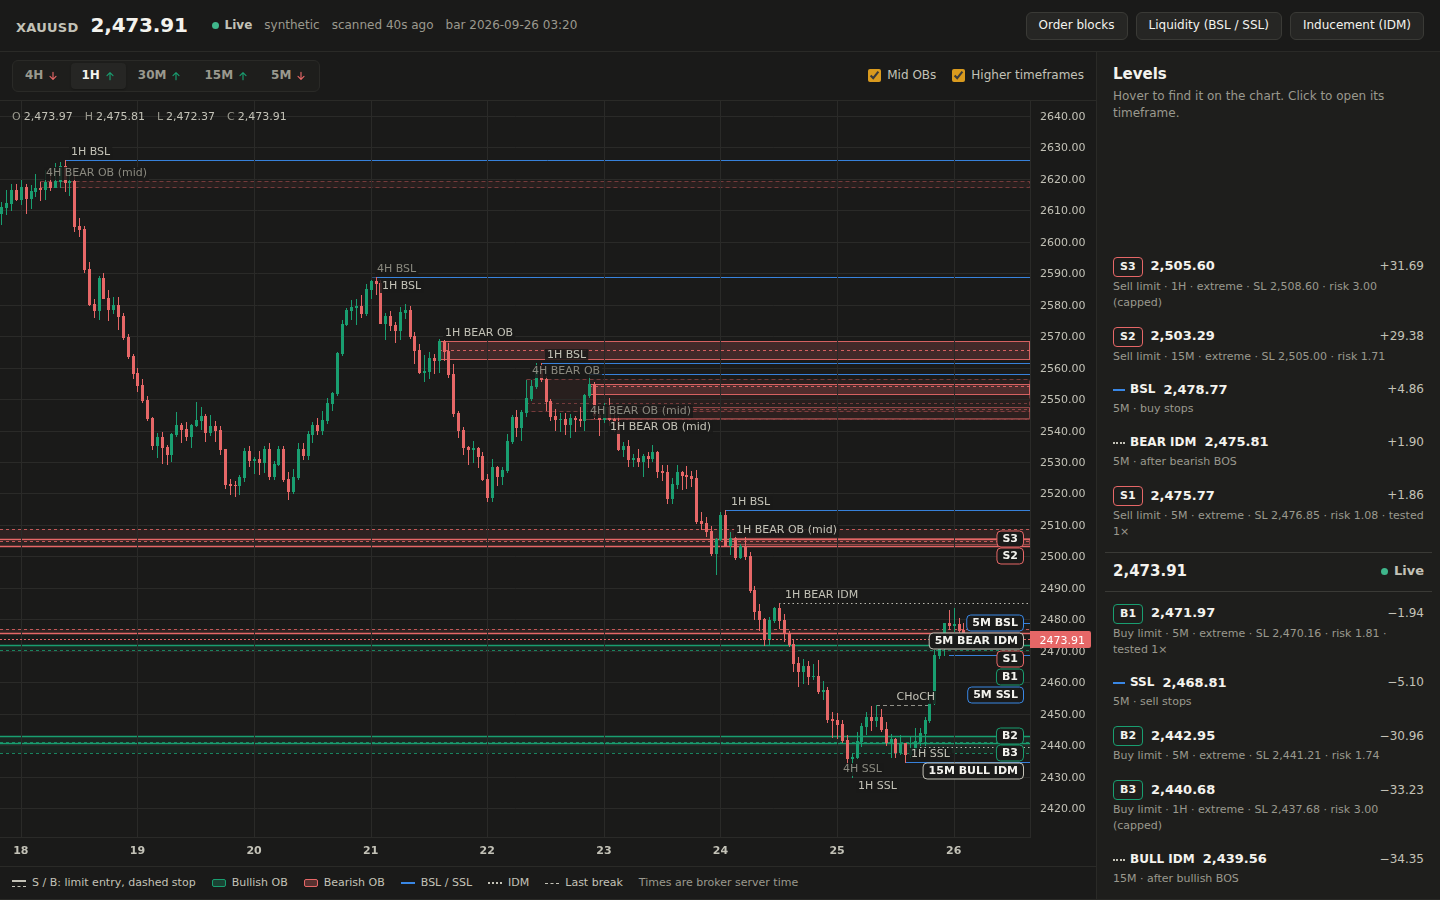
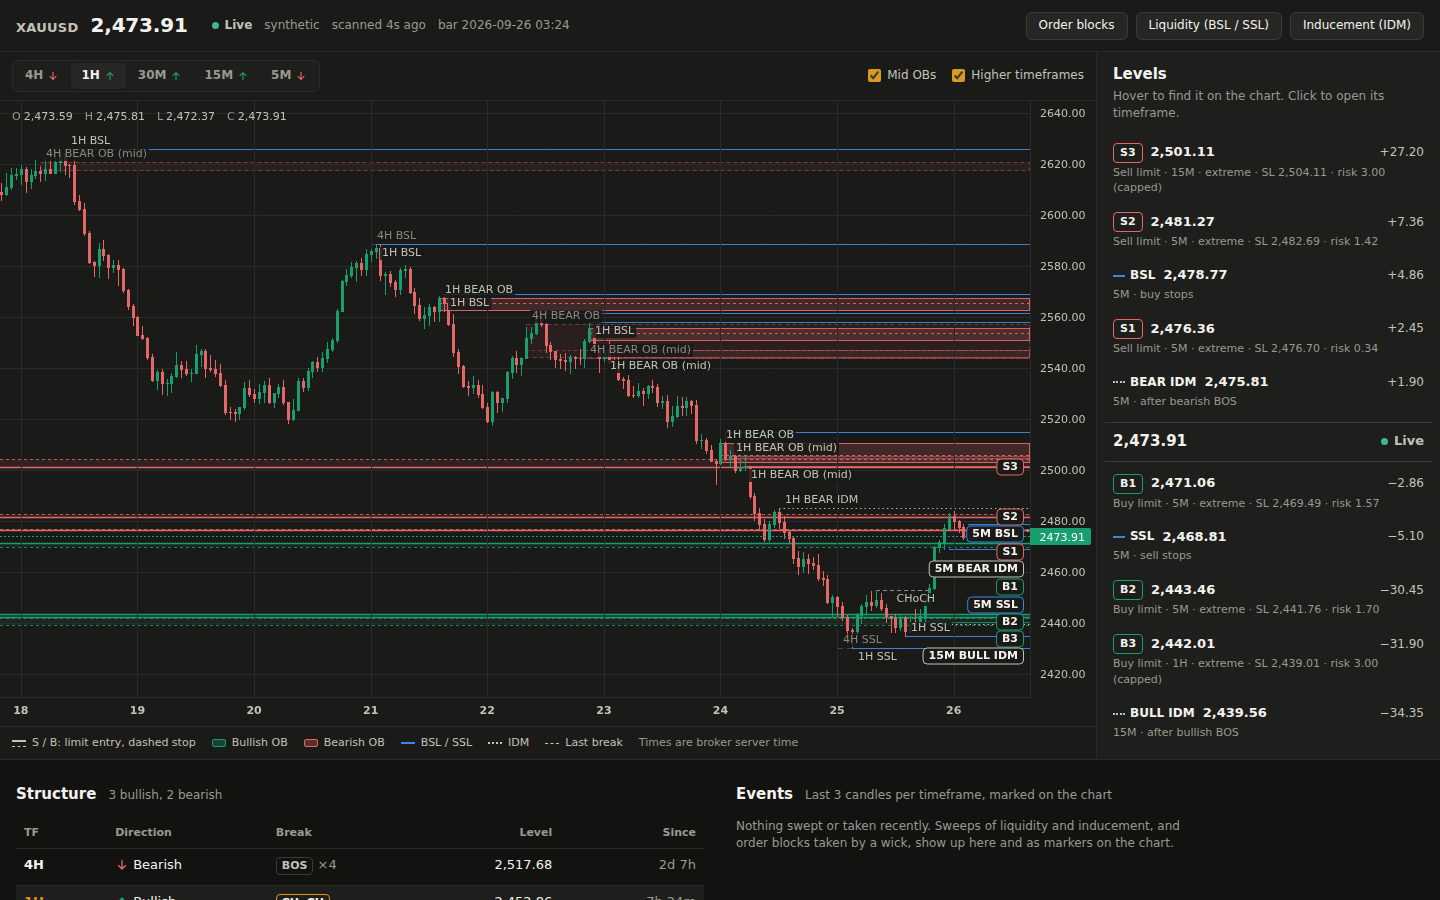
Start the level ladder under its heading and shorten the chart area
- sell rows no longer sit at the bottom of the rail with empty space above
- workspace height is clamp(520px, viewport - 140px, 720px) so the details
  below peek into the first viewport; single-column layout keeps auto height

Claude-Session: https://claude.ai/code/session_01PLHgJDCBn72bRHLxBKFCkq

diff --git a/web/src/styles.css b/web/src/styles.css
@@ -243,8 +243,8 @@ p {
 .workspace {
   display: grid;
   grid-template-columns: minmax(0, 1fr) 344px;
-  height: calc(100dvh - var(--topbar-h));
-  min-height: 560px;
+  /* Leave the details below peeking into the first viewport. */
+  height: clamp(520px, calc(100dvh - var(--topbar-h) - 140px), 720px);
   background: var(--surface);
   border-bottom: 1px solid var(--line);
 }
@@ -411,13 +411,6 @@ p {
   margin: 0;
   padding: var(--s1) var(--s2);
   list-style: none;
-}
-/* Above-price rows sit on the price line, like the chart's y axis. */
-.ladder.above {
-  flex: 1;
-  display: flex;
-  flex-direction: column;
-  justify-content: flex-end;
 }
 
 .ladder-row {
@@ -672,16 +665,12 @@ p {
   .layers {
     margin-inline-start: 0;
   }
-  .workspace {
-    height: auto;
-    min-height: 620px;
-  }
 }
 
 @media (max-width: 900px) {
   .workspace {
     grid-template-columns: 1fr;
-    min-height: 0;
+    height: auto;
   }
   .chart-wrap {
     flex: none;
@@ -692,9 +681,6 @@ p {
     overflow: visible;
     border-inline-start: 0;
     border-top: 1px solid var(--line);
-  }
-  .ladder.above {
-    flex: none;
   }
   .ladder-now {
     position: static;
